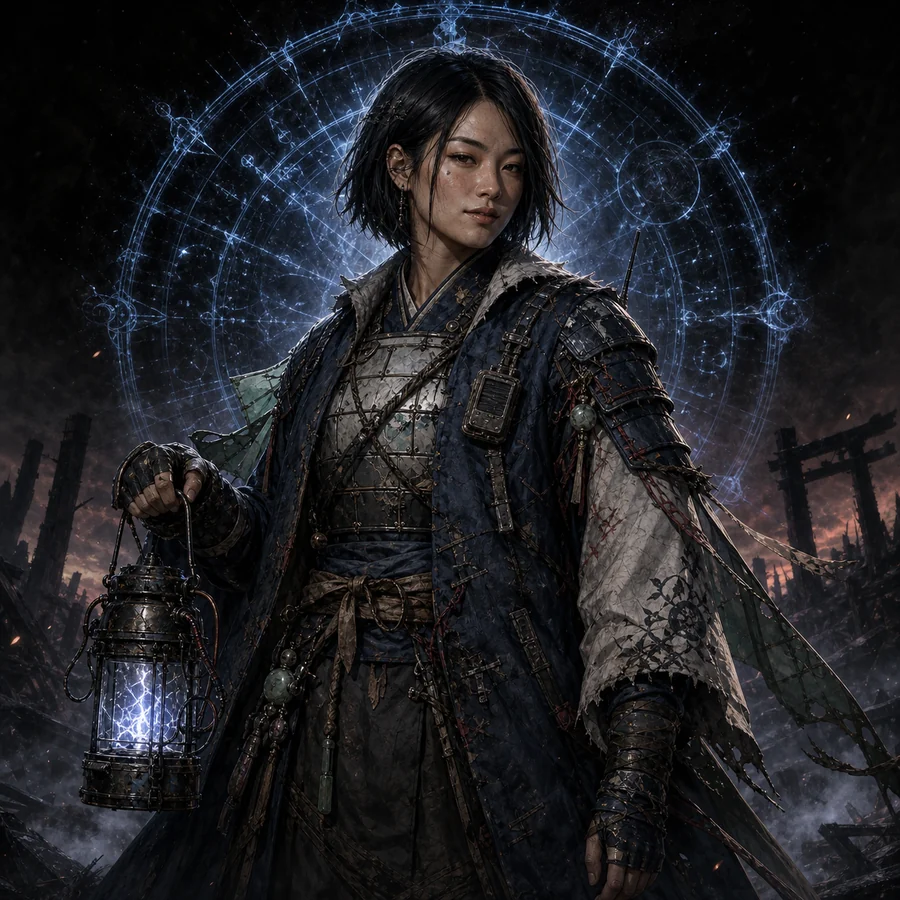
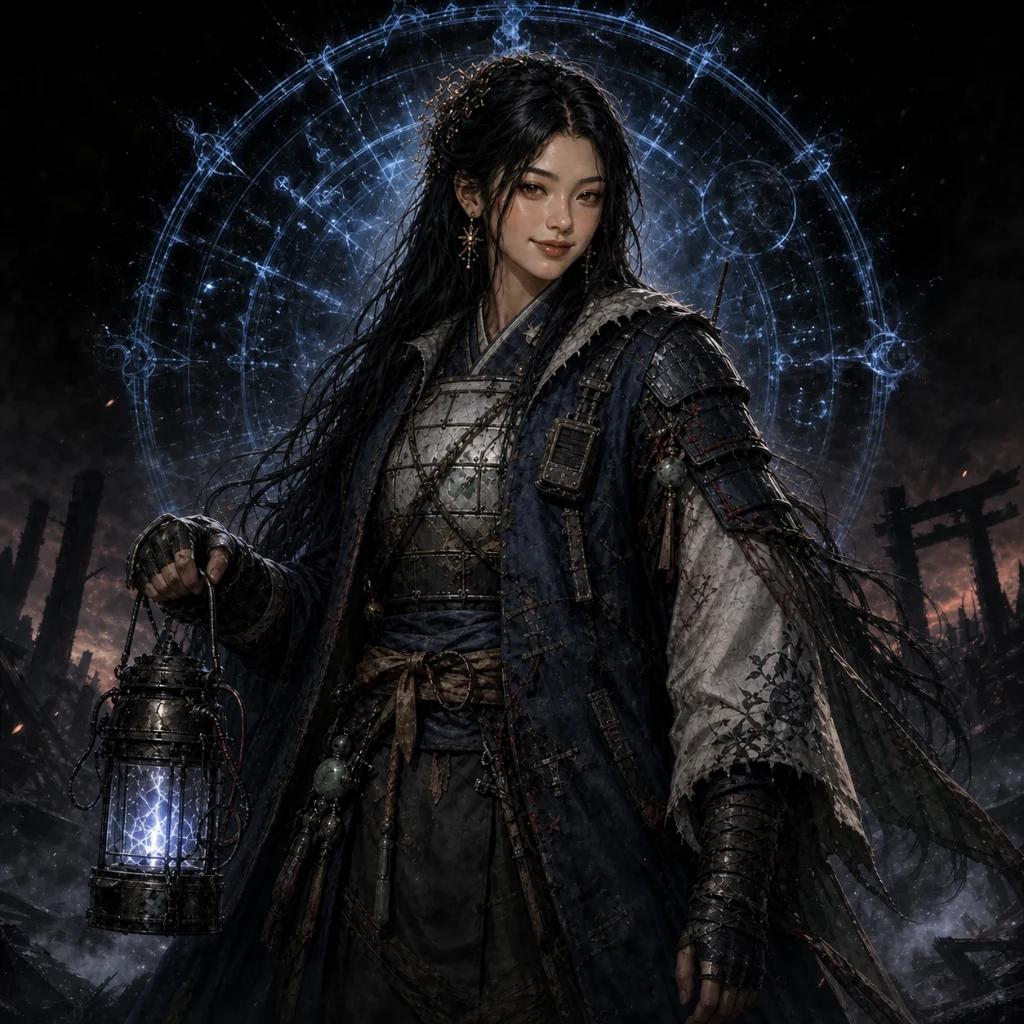
Finalize Aiko long-hair consistency pass

diff --git a/src/game/data.ts b/src/game/data.ts
@@ -48,7 +48,7 @@ export const CHARACTERS: CharacterDefinition[] = [
   { id: 'vesper', name: 'Vesper', epithet: 'The Deadeye', glyph: '✦', color: '#f2d479', description: 'Measured shots, brutal payoffs.', startingHearts: 5, baseAbility: 'Sixth Sense — every sixth shot is a critical hit.', activeAbility: 'Deadeye Focus — instantly marks and executes the nearest threats.', activeCooldown: 11, awakening: 'Perfect Rhythm — every fourth shot crits and pierces.', origin: 'English · 29', build: 'Tall, long-legged, slim-curvy', visualIdentity: 'Silver braid, severe gray eyes, long black field coat, articulated black-and-brass prosthetic right glove.', lore: 'A former Crown surveyor who mapped the first Black Signal exclusion zones and survived the team sent to silence her.' },
   { id: 'cinder', name: 'Scarlet', epithet: 'The Ashborn', glyph: '◆', color: '#ff735c', description: 'Turns packed hordes into kindling.', startingHearts: 5, baseAbility: 'Kindling — weapon hits ignite enemies.', activeAbility: 'Firebrand — release an igniting ring of flame.', activeCooldown: 10, awakening: 'Flashover — burning enemies explode on death.', origin: 'Irish-American · 26', build: 'Petite, softly curvy, freckled', visualIdentity: 'Enormous copper curls, gray-green eyes, light gunfighter armor, bare arms, and a red scarf cut from an old protest banner.', lore: 'A city organizer before the Collapse, Scarlet now runs medicine through curfew lines and burns the regime’s corpse-factories.' },
   { id: 'bastion', name: 'Ama', epithet: 'The Oathbound', glyph: '⬡', color: '#74d8c2', description: 'A field captain who makes danger break around her.', startingHearts: 6, baseAbility: 'Bulwark — starts with a sixth heart; nearby allies take 18% less damage.', activeAbility: 'Aegis Pulse — protect nearby allies and crush the surrounding horde.', activeCooldown: 14, awakening: 'Hold the Line — the aura doubles in range and strength.', origin: 'Ghanaian-English · 28', build: 'Petite, lean-hourglass, lightly athletic', visualIdentity: 'Warm deep-brown skin, expressive almond eyes, natural curls in a low ponytail, and light teal civil-defense armor with hand-etched gold details.', lore: 'Ama Bennett earned the callsign Bastion as a civil-defense captain. When the provisional government ordered the infected districts sealed, she turned her precinct into a sanctuary and held its doors open.' },
-  { id: 'warden', name: 'Aiko', epithet: 'The Last Light', glyph: '✚', color: '#b6a5ff', description: 'Carries survivors home when the sirens stop.', startingHearts: 5, baseAbility: 'Second Wind — revive allies 50% faster.', activeAbility: 'Mending Light — restore one heart to the squad.', activeCooldown: 16, awakening: 'Grace — living hunters slowly regenerate health.', origin: 'Japanese · 29', build: 'Petite, compact, softly athletic', visualIdentity: 'Heart-shaped Japanese face, subtle monolid eyes, a beauty mark under one eye, uneven chin-length black bob, repaired indigo shrine coat and signal lantern.', lore: 'Aiko was an emergency physician in Yokohama’s last vertical shelter. She crossed the dead rail to find the patients the evacuation authority abandoned.' },
+  { id: 'warden', name: 'Aiko', epithet: 'The Last Light', glyph: '✚', color: '#b6a5ff', description: 'Carries survivors home when the sirens stop.', startingHearts: 5, baseAbility: 'Second Wind — revive allies 50% faster.', activeAbility: 'Mending Light — restore one heart to the squad.', activeCooldown: 16, awakening: 'Grace — living hunters slowly regenerate health.', origin: 'Japanese · 29', build: 'Petite, compact, softly athletic', visualIdentity: 'Soft heart-shaped face, dark almond eyes, a beauty mark beneath her left eye, waist-length black hair, repaired indigo shrine coat and signal lantern.', lore: 'Aiko was an emergency physician in Yokohama’s last vertical shelter. She crossed the dead rail to find the patients the evacuation authority abandoned.' },
   { id: 'nyx', name: 'Nyx', epithet: 'The Veilblade', glyph: '☾', color: '#7f8cff', description: 'Slips between blows and cuts through crowded lanes.', startingHearts: 5, baseAbility: 'Veilstep — 16% chance to evade incoming damage.', activeAbility: 'Nightstep — blink through danger and become briefly untouchable.', activeCooldown: 9, awakening: 'Night Without End — evades become 28% and grant haste.', origin: 'Greek · 24', build: 'Short, wiry, sharp', visualIdentity: 'Olive skin, hooked nose, cropped black curls, indigo hood and scavenged ceramic plates.', lore: 'A rooftop courier from the drowned Athens arcology, she stole a route-key that proves the night gates are being opened from inside.' },
   { id: 'tempest', name: 'Tempest', epithet: 'The Stormheart', glyph: 'ϟ', color: '#65bfff', description: 'Makes every target the start of a lightning storm.', startingHearts: 5, baseAbility: 'Conduction — every projectile chains once.', activeAbility: 'Cloudbreak — call lightning onto the nearest enemy pack.', activeCooldown: 10, awakening: 'Supercell — chains travel farther and strike harder.', origin: 'Nigerian · 27', build: 'Long-legged, muscular', visualIdentity: 'Dark skin, electric white microbraids, cobalt engineer harness, exposed copper induction coils.', lore: 'She kept Lagos Sector Nine powered after the grid became a weapon. The coils on her back still carry stolen storm-reactor charge.' },
   { id: 'briar', name: 'Briar', epithet: 'The Bloodrose', glyph: '❧', color: '#e45d82', description: 'Feeds on the horde and punishes anything that closes.', startingHearts: 5, baseAbility: 'Bloodbloom — kills restore a sliver of health.', activeAbility: 'Rosewake — erupt thorns around you and drink their damage.', activeCooldown: 12, awakening: 'Red Spring — healing doubles and excess becomes armor.', origin: 'French · 31', build: 'Softly curvy, grounded', visualIdentity: 'Auburn waves, long face, green eyes, living rose lattice growing through black reclamation armor.', lore: 'A botanist from the Lyon seed vault, Briar grafted the plague-resistant bloodrose into herself when the vault guards began burning the samples.' },

diff --git a/tests/smoke.spec.ts b/tests/smoke.spec.ts
@@ -76,7 +76,7 @@ test('loads the production shell and starts a solo hunt', async ({ page }) => {
   expect(failedRequests).toEqual([])
   expect(pageErrors).toEqual([])
 
-  for (const art of ['upgrade-vesper-1.webp', 'upgrade-seraph-5.webp', 'upgrade-backdrop-1.webp', 'upgrade-rapunsel-5.webp', 'upgrade-cinder-1.webp', 'upgrade-cinder-2.webp', 'upgrade-cinder-3.webp', 'upgrade-cinder-4.webp', 'upgrade-cinder-5.webp', 'upgrade-bastion-1.webp', 'upgrade-bastion-2.webp', 'upgrade-bastion-3.webp', 'upgrade-bastion-4.webp', 'upgrade-bastion-5.webp', 'cinder-portrait.webp', 'ama-portrait.webp', 'rapunsel-portrait.webp', 'aiko-portrait.webp', 'eira-portrait.webp', 'mara-portrait.webp', 'zahra-portrait.webp', 'recap-victory-1.webp', 'recap-defeat-5.webp']) {
+  for (const art of ['upgrade-vesper-1.webp', 'upgrade-seraph-5.webp', 'upgrade-backdrop-1.webp', 'upgrade-rapunsel-5.webp', 'upgrade-cinder-1.webp', 'upgrade-cinder-2.webp', 'upgrade-cinder-3.webp', 'upgrade-cinder-4.webp', 'upgrade-cinder-5.webp', 'upgrade-bastion-1.webp', 'upgrade-bastion-2.webp', 'upgrade-bastion-3.webp', 'upgrade-bastion-4.webp', 'upgrade-bastion-5.webp', 'upgrade-warden-1.webp', 'upgrade-warden-2.webp', 'upgrade-warden-3.webp', 'upgrade-warden-4.webp', 'upgrade-warden-5.webp', 'cinder-portrait.webp', 'ama-portrait.webp', 'rapunsel-portrait.webp', 'aiko-portrait.webp', 'eira-portrait.webp', 'mara-portrait.webp', 'zahra-portrait.webp', 'recap-victory-1.webp', 'recap-defeat-5.webp']) {
     expect((await page.request.get(`/art/${art}`)).ok()).toBe(true)
   }
 })

diff --git a/src/game/renderer.ts b/src/game/renderer.ts
@@ -33,7 +33,7 @@ const HUNTER_VISUALS: Record<PlayerState['character'], { skin: string; hair: str
   vesper: { skin: '#e8c7b2', hair: '#181a24', coat: '#34304c', accent: '#d6bcff', build: 0.88, height: 1.04, hairLength: 16, style: 'long' },
   cinder: { skin: '#d7a17c', hair: '#481b18', coat: '#642d28', accent: '#ff8265', build: 0.98, height: 1.01, hairLength: 11, style: 'waves' },
   bastion: { skin: '#9b5f43', hair: '#171317', coat: '#304941', accent: '#74d8c2', build: 0.86, height: 1.01, hairLength: 14, style: 'ponytail' },
-  warden: { skin: '#efd0bb', hair: '#10141c', coat: '#273b38', accent: '#a9efdc', build: 0.82, height: 0.98, hairLength: 13, style: 'bob' },
+  warden: { skin: '#d9aa91', hair: '#10141c', coat: '#30304f', accent: '#b6a5ff', build: 0.82, height: 0.98, hairLength: 25, style: 'long' },
   nyx: { skin: '#8e5d49', hair: '#151018', coat: '#342747', accent: '#9587ff', build: 0.9, height: 1.02, hairLength: 6, style: 'shaved' },
   tempest: { skin: '#e5b99d', hair: '#d8dce7', coat: '#29465a', accent: '#69c9ff', build: 0.86, height: 1.06, hairLength: 14, style: 'ponytail' },
   briar: { skin: '#dca17f', hair: '#3a1d20', coat: '#4f2738', accent: '#e45d82', build: 1.05, height: 0.99, hairLength: 18, style: 'waves' },

diff --git a/src/main.ts b/src/main.ts
@@ -58,7 +58,7 @@ const stableHash = (key: string): number => {
   return Math.abs(hash)
 }
 const stableArtVariant = (key: string): number => (stableHash(key) % 5) + 1
-const upgradeSceneStyle = (character: PlayerConfig['character'], variant: number) => character === 'rapunsel' || character === 'cinder' || character === 'bastion'
+const upgradeSceneStyle = (character: PlayerConfig['character'], variant: number) => character === 'rapunsel' || character === 'cinder' || character === 'bastion' || character === 'warden'
   ? `--splash-art:url('${ART_BASE}upgrade-${character}-${variant}.webp');--portrait-art:none;`
   : CHARACTER_PORTRAITS[character]
     ? `--splash-art:url('${ART_BASE}upgrade-backdrop-${variant}.webp');--portrait-art:url('${ART_BASE}${CHARACTER_PORTRAITS[character]}');`

diff --git a/character-bible.md b/character-bible.md
@@ -215,3 +215,44 @@
 - Approved main splash: `art-source/bastion/production-main-v2/ama-main-splash-v2.png`
 - Alternate splash set: `art-source/bastion/production-set-v1/`
 - Review copies: `../character-review/bastion/face-options-v3-reference-reset/`
+
+# Aiko
+
+## Status
+- Phase: production-ready
+- Redesign decision: Preserve the existing character; no face or body redesign
+- Identity anchor: Existing academy upgrade artwork, preserved unchanged as `art-source/aiko/consistency-v1/aiko-upgrade-academy-anchor.webp`
+- Candidate set: `art-source/aiko/consistency-v1/`
+- Last reviewed: 2026-08-26
+
+## Core concept
+- Role: Japanese emergency physician and battlefield support hunter
+- Apparent age: 29
+- Build: Petite, compact, softly athletic
+- Personality read: Gentle, observant, quietly mischievous, composed under pressure, and intensely protective
+- Lore anchor: Former emergency physician in Yokohama's last vertical shelter who crossed the dead rail to reach patients abandoned by the evacuation authority
+
+## Locked visual identity
+- Face: Softly heart-shaped face with gently tapered jaw
+- Eyes: Dark almond eyes with a subtle low crease
+- Nose and mouth: Straight softly rounded nose and naturally full lower lip
+- Distinguishing detail: Small beauty mark beneath the left eye
+- Hair: Glossy natural black, center-offset part, loose face-framing strands, mostly straight with soft natural waves, consistently waist length
+- Costume palette: Indigo, ivory, weathered black, and restrained gold
+- Main-class silhouette: Repaired indigo shrine-inspired field coat, practical light armor, and a glowing signal lantern
+
+## Prompt lineage
+- Existing academy splash selected as the sole identity anchor because it provides the clearest view of the preferred long-haired face
+- Selection portrait regenerated to combine the locked long-haired identity with the existing medic armor, lantern, healing-sigil halo, and square roster layout
+- Shopping, beach, café, and lantern splashes regenerated as identity-preserving edits of their existing scenes
+- Existing academy splash intentionally left unchanged to prevent identity averaging
+- Complete consistency pass approved on 2026-08-26
+
+## Rejected directions
+- Short or chin-length bob: User explicitly prefers Aiko with long hair
+- Full character redesign: User likes the existing identity and requested consistency only
+- Replacing the battlefield-medic costume or signal lantern: Both remain core class markers
+
+## Asset paths
+- Consistency-pass sources: `art-source/aiko/consistency-v1/`
+- Review copies: `../character-review/aiko/consistency-v1/`
